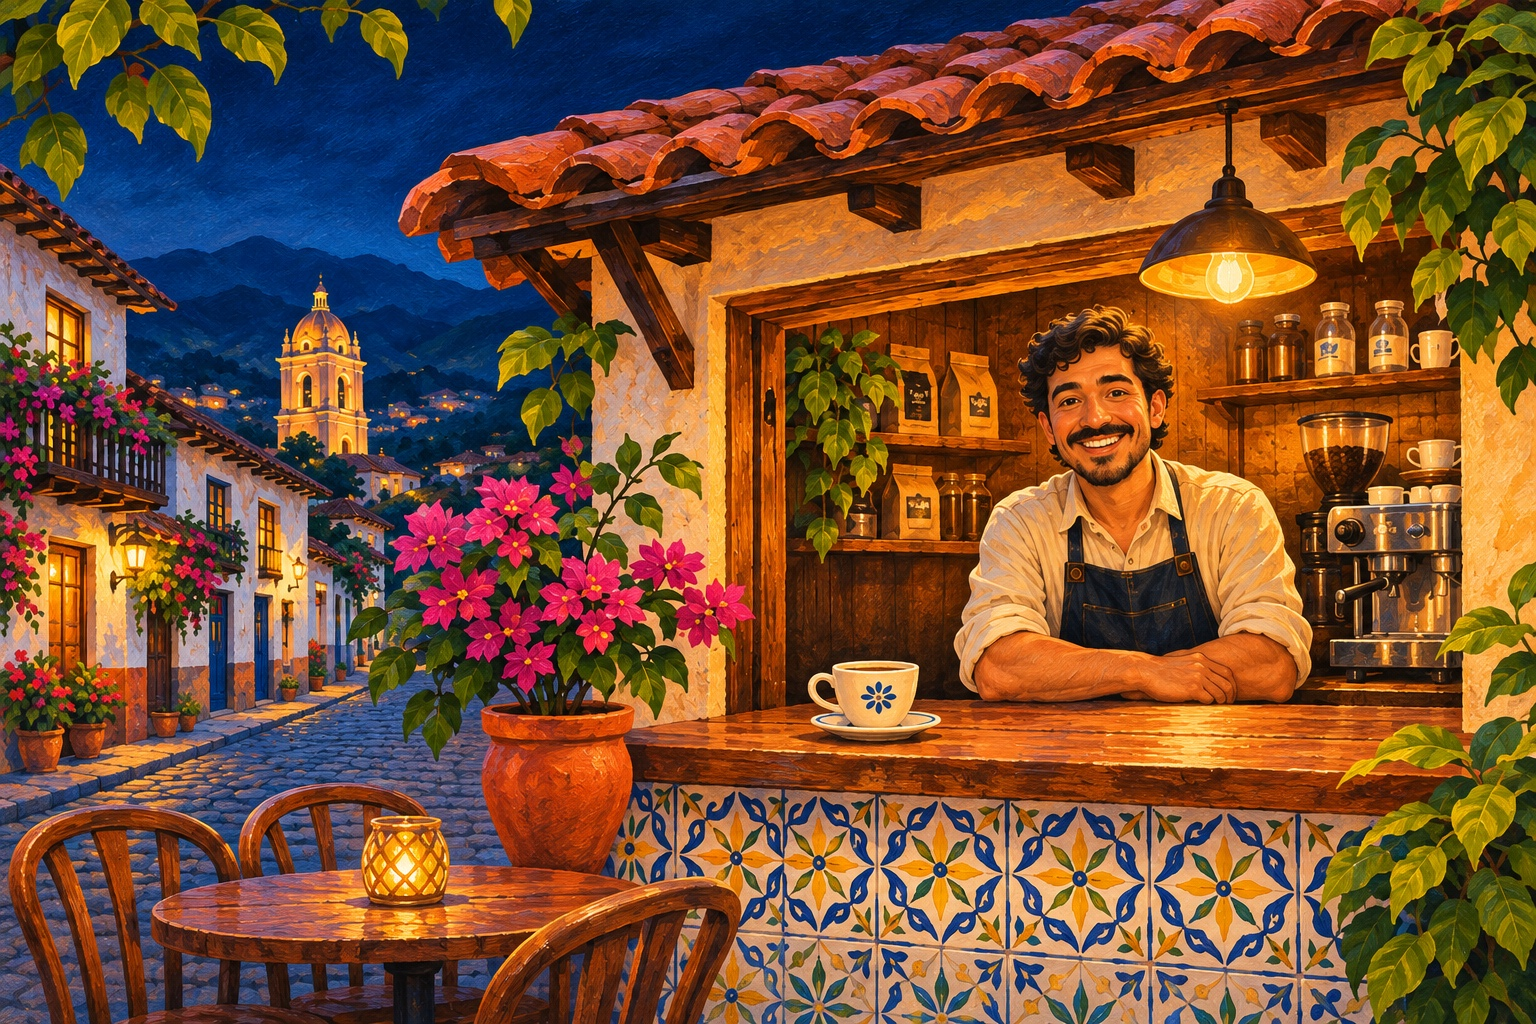
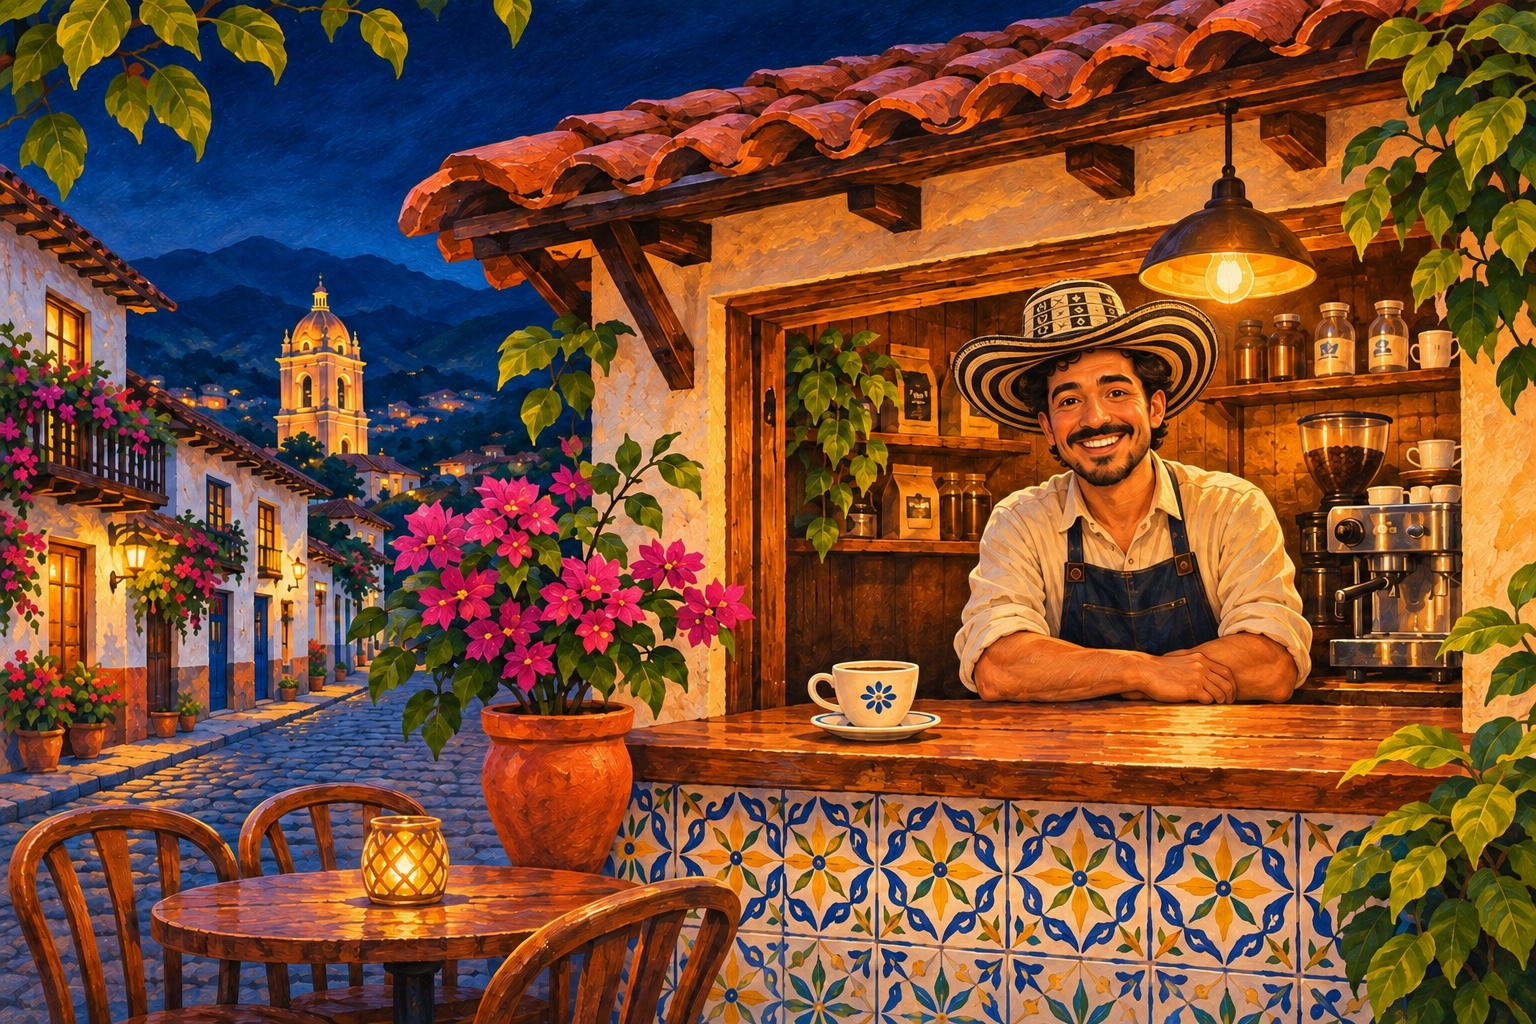
fix: accept punctuation-free replies and add cafe host hat

diff --git a/__tests__/exercises/production.test.ts b/__tests__/exercises/production.test.ts
@@ -37,13 +37,13 @@ test.each(['Sí, gracias', '  ¡SÍ,   GRACIAS! ', 'Si\u0301, gracias', 'Claro, 
     expect(assess(answer)).toMatchObject({ status: 'correct', independent: true, hintsUsed: 0 });
   },
 );
-test('accepts missing accents while preserving ñ and internal punctuation', () => {
+test('accepts missing accents and optional punctuation while preserving ñ', () => {
   expect(assess('Si, gracias')).toMatchObject({
     status: 'correct',
     independent: true,
     correctAnswer: 'Sí, gracias',
   });
-  expect(assess('Sí gracias').status).toBe('incorrect');
+  expect(assess('Sí gracias').status).toBe('correct');
   const year = { ...exercise, acceptedAnswers: ['año'] };
   expect(assessProductionAnswer(year, 'ano', 0).status).toBe('incorrect');
   expect(assessProductionAnswer({ ...exercise, acceptedAnswers: ['tú'] }, 'tu', 0).status).toBe(
@@ -295,3 +295,46 @@ test.each(['Un cafeito, por favor', 'Un cafecito', 'Un cafecito, sin azúcar, po
     ).toBe('incorrect');
   },
 );
+
+// A missing comma must not turn an otherwise correct conversational request into a retry.
+test.each([
+  'Agua por favor',
+  'agua,por favor',
+  '¡Agua por favor!',
+  '“Agua”—por…favor',
+  'Agüita por favor',
+])('accepts punctuation-independent water requests: %s', (answer) => {
+  const value = { ...exercise, acceptedAnswers: ['Agua, por favor'] };
+  expect(assessProductionAnswer(value, answer, 0)).toMatchObject({
+    status: 'correct',
+    independent: true,
+    correctAnswer: 'Agua, por favor',
+  });
+  expect(
+    createProductionObservation(value, {
+      sessionId: 'punctuation',
+      attempt: 0,
+      answer,
+      hintsUsed: 0,
+      occurredAt: 1000,
+      durationMs: 10,
+    }).outcome,
+  ).toBe('correct');
+});
+test.each(['Agua', 'Agua porfavor', 'Por favor agua', 'Agua sin gas por favor'])(
+  'punctuation tolerance still requires the authored words: %s',
+  (answer) => {
+    expect(
+      assessProductionAnswer({ ...exercise, acceptedAnswers: ['Agua, por favor'] }, answer, 0)
+        .status,
+    ).toBe('incorrect');
+  },
+);
+test('punctuation-only Unicode input remains unanswered', () => {
+  expect(assess('—…“”()').status).toBe('empty');
+  expect(() => validateProductionExercise({ ...exercise, acceptedAnswers: ['—…“”()'] })).toThrow();
+});
+test('retains an exact authored punctuation variant for feedback', () => {
+  const value = { ...exercise, acceptedAnswers: ['Agua, por favor', 'Agua por favor'] };
+  expect(assessProductionAnswer(value, 'Agua por favor', 0).correctAnswer).toBe('Agua por favor');
+});

diff --git a/src/exercises/production.ts b/src/exercises/production.ts
@@ -13,7 +13,7 @@ export interface ProductionExercise {
   hints: string[];
 }
 
-// Keep authored spelling for feedback and exact-match preference; only outer punctuation is cosmetic.
+// Keep authored spelling and punctuation for feedback and exact-match preference.
 function normalizeAnswer(answer: string): string {
   return answer
     .normalize('NFKC')
@@ -38,8 +38,15 @@ const diminutives: Record<string, string> = {
   juguito: 'jugo',
 };
 function matchingAnswer(answer: string): string {
-  return withoutVowelMarks(answer).replace(/[\p{L}\p{M}]+/gu, (word) =>
-    Object.prototype.hasOwnProperty.call(diminutives, word) ? diminutives[word] : word,
+  return (
+    withoutVowelMarks(answer)
+      // Punctuation separates words but is never a requirement for a conversational reply.
+      .replace(/\p{P}+/gu, ' ')
+      .replace(/\s+/gu, ' ')
+      .trim()
+      .replace(/[\p{L}\p{M}]+/gu, (word) =>
+        Object.prototype.hasOwnProperty.call(diminutives, word) ? diminutives[word] : word,
+      )
   );
 }
 const text = (value: unknown, max: number): value is string =>
@@ -75,7 +82,7 @@ export function validateProductionExercise(value: unknown): ProductionExercise {
     item.acceptedAnswers.length < 1 ||
     item.acceptedAnswers.length > 20 ||
     !Array.from(item.acceptedAnswers).every(
-      (answer) => text(answer, 256) && normalizeAnswer(answer).length > 0,
+      (answer) => text(answer, 256) && matchingAnswer(normalizeAnswer(answer)).length > 0,
     ) ||
     !Array.isArray(item.hints) ||
     item.hints.length > 5 ||
@@ -127,7 +134,7 @@ export function assessProductionAnswer(
     ? exactIndex
     : accepted.findIndex((candidate) => matchingAnswer(candidate) === equivalent);
   const correct = matchingIndex >= 0;
-  const status: 'empty' | 'correct' | 'incorrect' = !normalized
+  const status: 'empty' | 'correct' | 'incorrect' = !equivalent
     ? 'empty'
     : correct
       ? 'correct'

diff --git a/__tests__/screens/AdventuresScreen.test.tsx b/__tests__/screens/AdventuresScreen.test.tsx
@@ -317,3 +317,26 @@ test('a fully stamped passport offers revisits without inventing another visit',
     mode: 'preview',
   });
 });
+
+test.each(['classic', 'barrio'] as const)(
+  'accepts Agua por favor in the return café visit in %s',
+  async (themeId) => {
+    await finishSavedVisit(0);
+    const ui = renderWithTheme(
+      <AdventureScreen route={{ params: { id: 'back-at-anas-cafe', mode: 'preview' } }} />,
+    );
+    ui.applyTheme({ themeId, appearanceMode: 'dark' });
+    fireEvent.press(await ui.findByText('Start visit'));
+    fireEvent.press(await ui.findByText('Continue'));
+    fireEvent.changeText(await ui.findByLabelText('Your response'), 'Buenos dias');
+    fireEvent.press(ui.getByText('Check answer'));
+    fireEvent.press(await ui.findByText('Continue'));
+    expect(await ui.findByText('Ask for water')).toBeTruthy();
+    fireEvent.changeText(ui.getByLabelText('Your response'), 'Agua por favor');
+    fireEvent.press(ui.getByText('Check answer'));
+    expect(await ui.findByText('Correct')).toBeTruthy();
+    expect(ui.getByText('Agua, por favor')).toBeTruthy();
+    expect(ui.queryByText('Try again')).toBeNull();
+    expect(ui.getByText('Continue')).toBeTruthy();
+  },
+);

diff --git a/__tests__/screens/MissionScreen.test.tsx b/__tests__/screens/MissionScreen.test.tsx
@@ -540,7 +540,7 @@ test('Android keyboard reduces the response viewport while preserving the focuse
   expect(StyleSheet.flatten(viewport.props.style).height).toBeUndefined();
 });
 
-test('correct accentless replies show the accented model and only Continue, then accept cafecito', async () => {
+test('correct accentless and punctuation-free replies show the authored model and only Continue', async () => {
   const ui = await begin();
   fireEvent.changeText(ui.getByLabelText('Your response'), 'buenos dias');
   fireEvent.press(ui.getByText('Check answer'));
@@ -549,7 +549,7 @@ test('correct accentless replies show the accented model and only Continue, then
   expect(ui.queryByText('Try again')).toBeNull();
   fireEvent.press(ui.getByText('Continue'));
   await ui.findByText('Ask for coffee');
-  fireEvent.changeText(ui.getByLabelText('Your response'), 'Un cafecito, por favor');
+  fireEvent.changeText(ui.getByLabelText('Your response'), 'Un cafecito por favor');
   fireEvent.press(ui.getByText('Check answer'));
   await ui.findByText('Correct');
   expect(ui.getByText('Un café, por favor')).toBeTruthy();

diff --git a/docs/superpowers/specs/2026-10-15-production-exercises.md b/docs/superpowers/specs/2026-10-15-production-exercises.md
@@ -4,7 +4,7 @@ The master plan calls for assessed production and cloze without conflating multi
 
 Use a versioned authored exercise with stable exercise/card/deck IDs, prompt, explicit accepted answers, correction explanation and ordered hints. Cloze uses one `{{blank}}` marker and checks only the missing phrase. Typed recall uses an ordinary prompt. Reject ambiguous malformed definitions, unsupported versions and duplicate normalized answers. A release/editorial pipeline and a learner-facing player remain separate integration work.
 
-Normalize Unicode compatibility, Spanish letter case, repeated spaces and outer sentence punctuation. Keep accents, ñ, internal punctuation and word order significant. A vowel-accent-only near match is incorrect with a distinct accent correction; never treat año/ano as equivalent. No fuzzy spelling acceptance or automatic splitting of slash-separated answers. Empty input creates no observation. Hints are authored, ordered and counted; a correct hinted answer remains assisted.
+Updated by owner direction November 3: normalize Unicode compatibility, Spanish letter case, repeated spaces and optional sentence/internal punctuation. Missing vowel accents and the explicit conversational diminutive equivalents are accepted; ñ, required words and word order remain significant. Never treat año/ano as equivalent. Keep the authored spelling and punctuation for feedback, preferring an exact authored variant when one exists. No fuzzy spelling acceptance or automatic splitting of slash-separated answers. Empty input creates no observation. Hints are authored, ordered and counted; a correct hinted answer remains assisted.
 
 Build answer-checked recall events using an explicit session/attempt identity, timestamp and elapsed duration. Record hint count, never raw learner text. Existing append logic handles retained-ID retries; no schedule, seen-word or daily/streak mutation is performed. Persist exercise kind/ID/version as optional event provenance; old histories remain readable and backups preserve provenance.
 

diff --git a/assets/cafe/README.md b/assets/cafe/README.md
@@ -3,3 +3,5 @@
 Generated with the built-in image generation tool for the owner-approved café Home concept (November 3, 2026). `evening.jpg` is the text-free production illustration; `morning.jpg` edits the same scene to daylight. The app adds afternoon warmth and animated steam/lamplight. Native components supply every label and control.
 
 Prompt summary: sophisticated textured gouache Colombian neighborhood café, friendly adult barista, painted tiles, bougainvillea, mountains and church down the street; coffee cup on counter; identical day/night framing; no lettering, UI, or baked steam. JPEGs are quality-90 exports of the generated originals. No external stock assets or new font packages were added.
+
+The owner-requested November 3 refinement adds the same traditional black-and-cream Colombian sombrero vueltiao to the host in both lighting variants. Built-in image editing preserved the scene and cup/lamp positions; the daylight edit used the edited evening hat as its alignment reference. The previous un-hatted assets remain in Git history.
